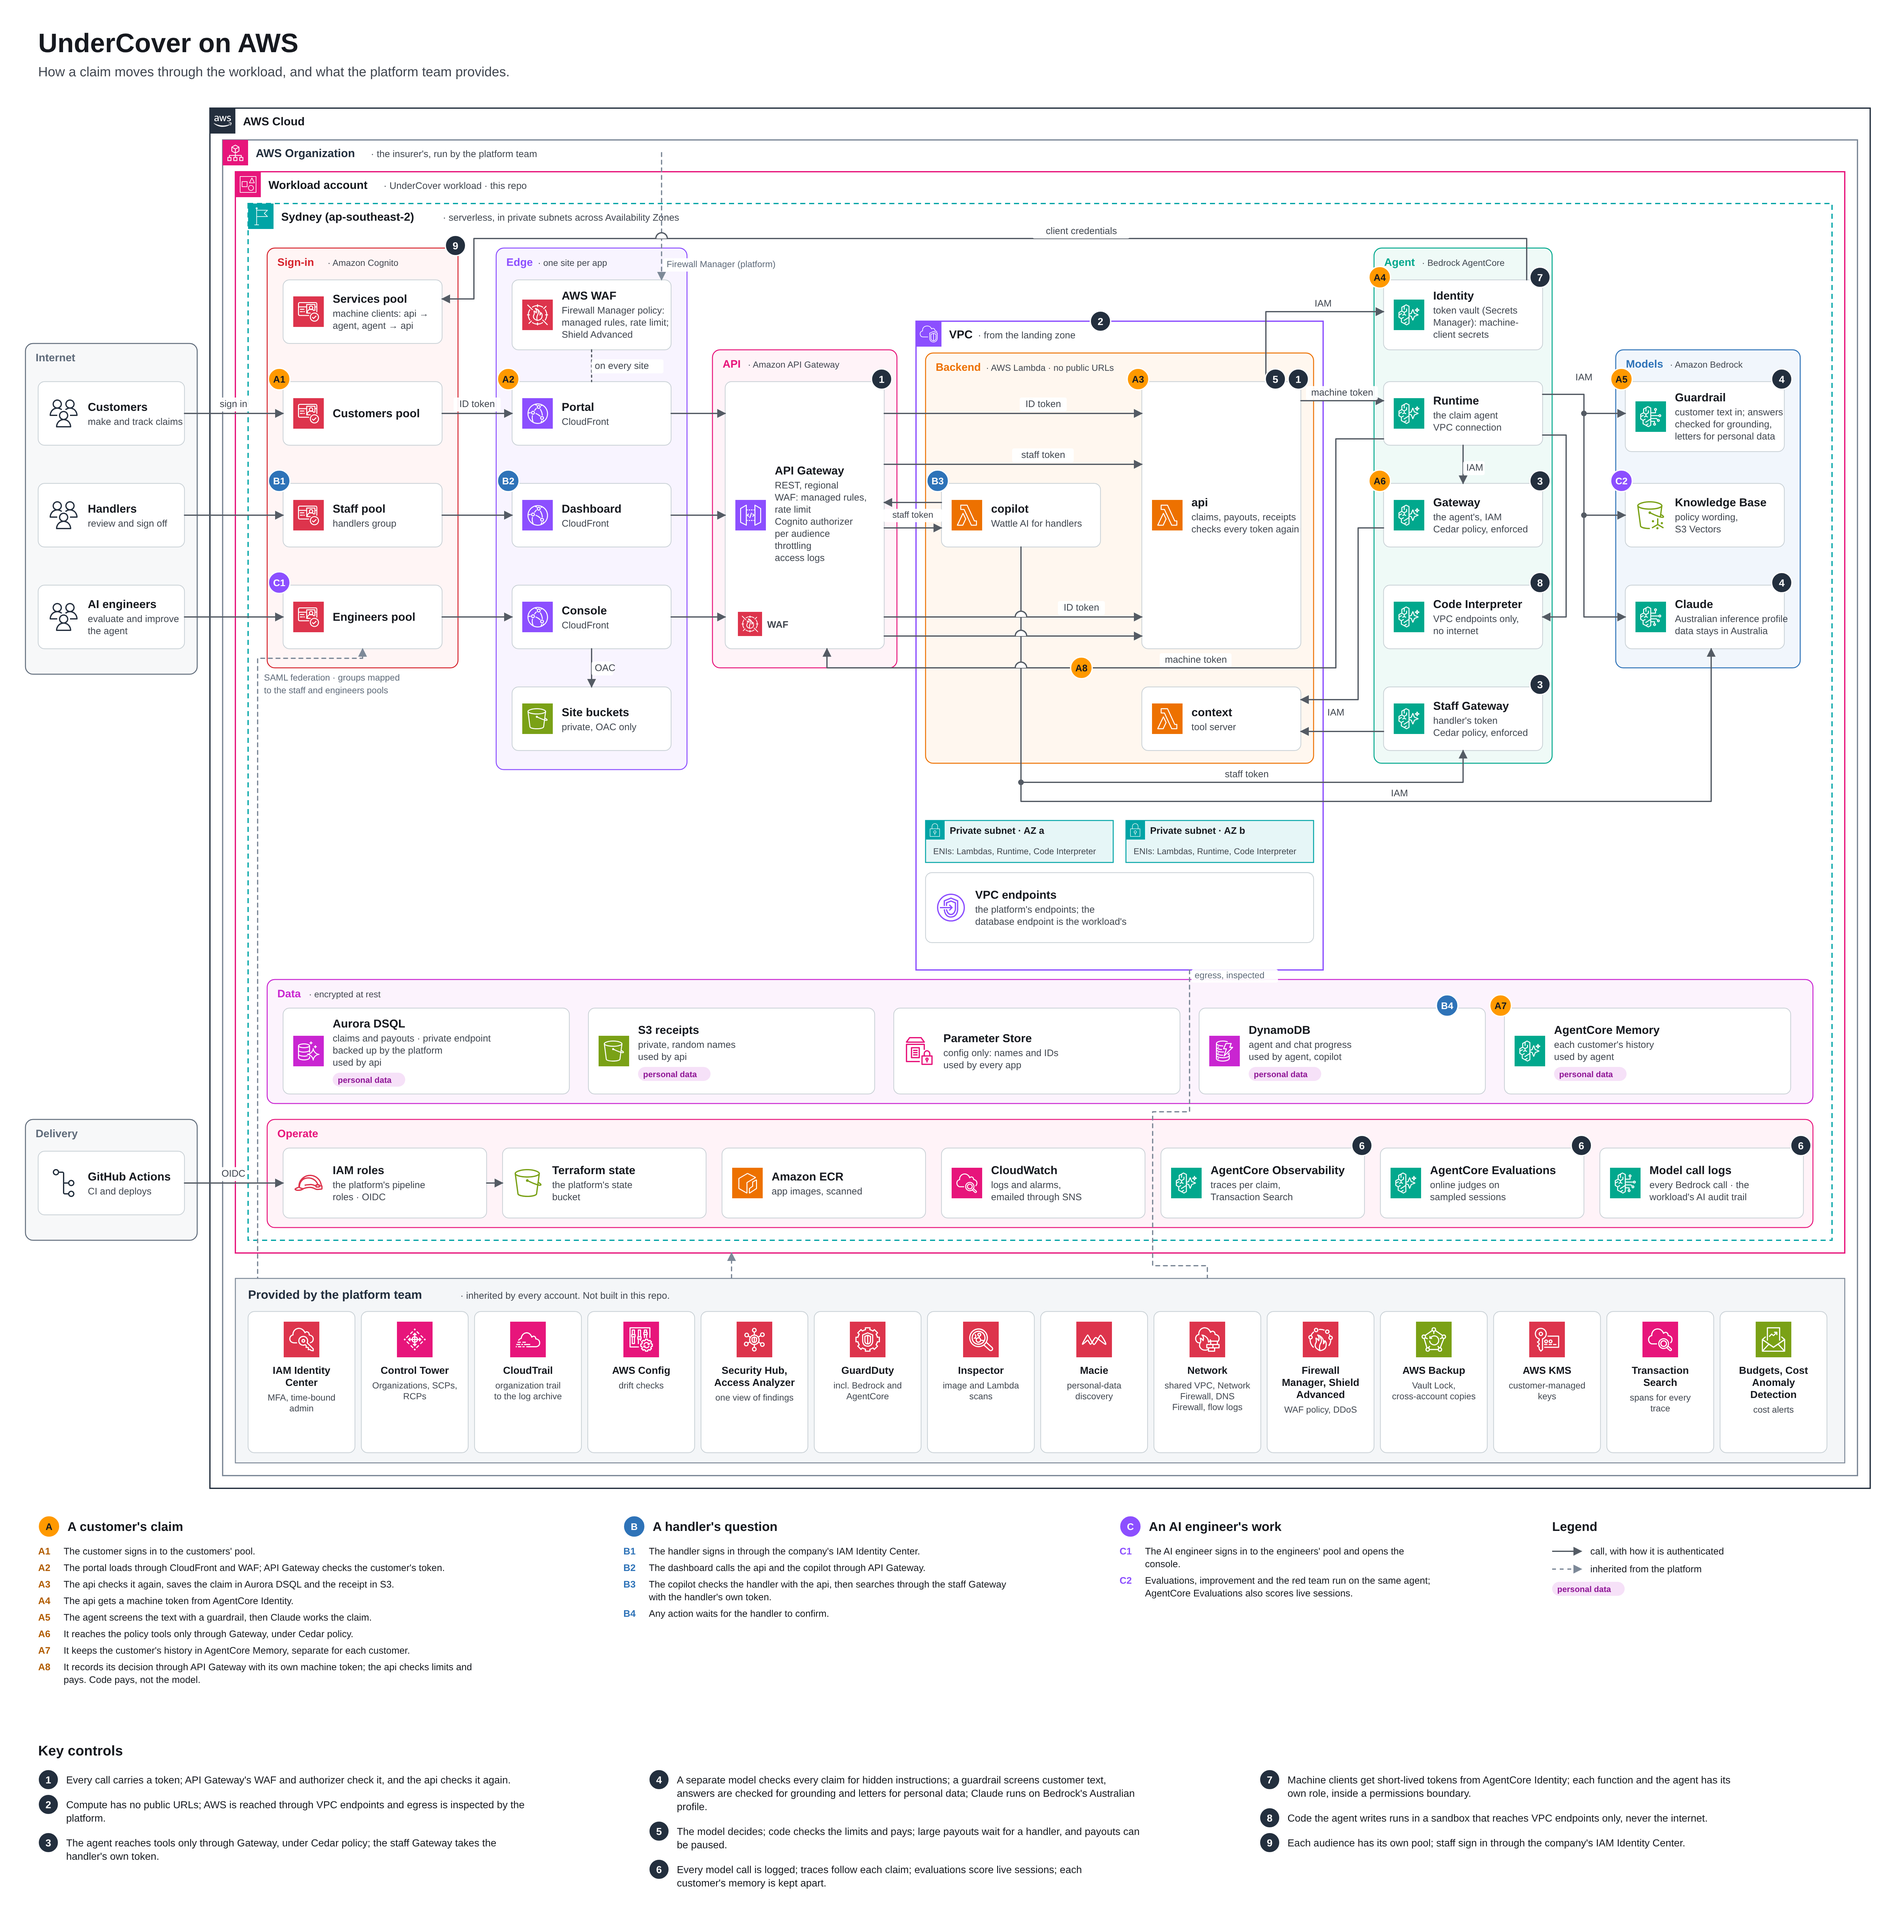
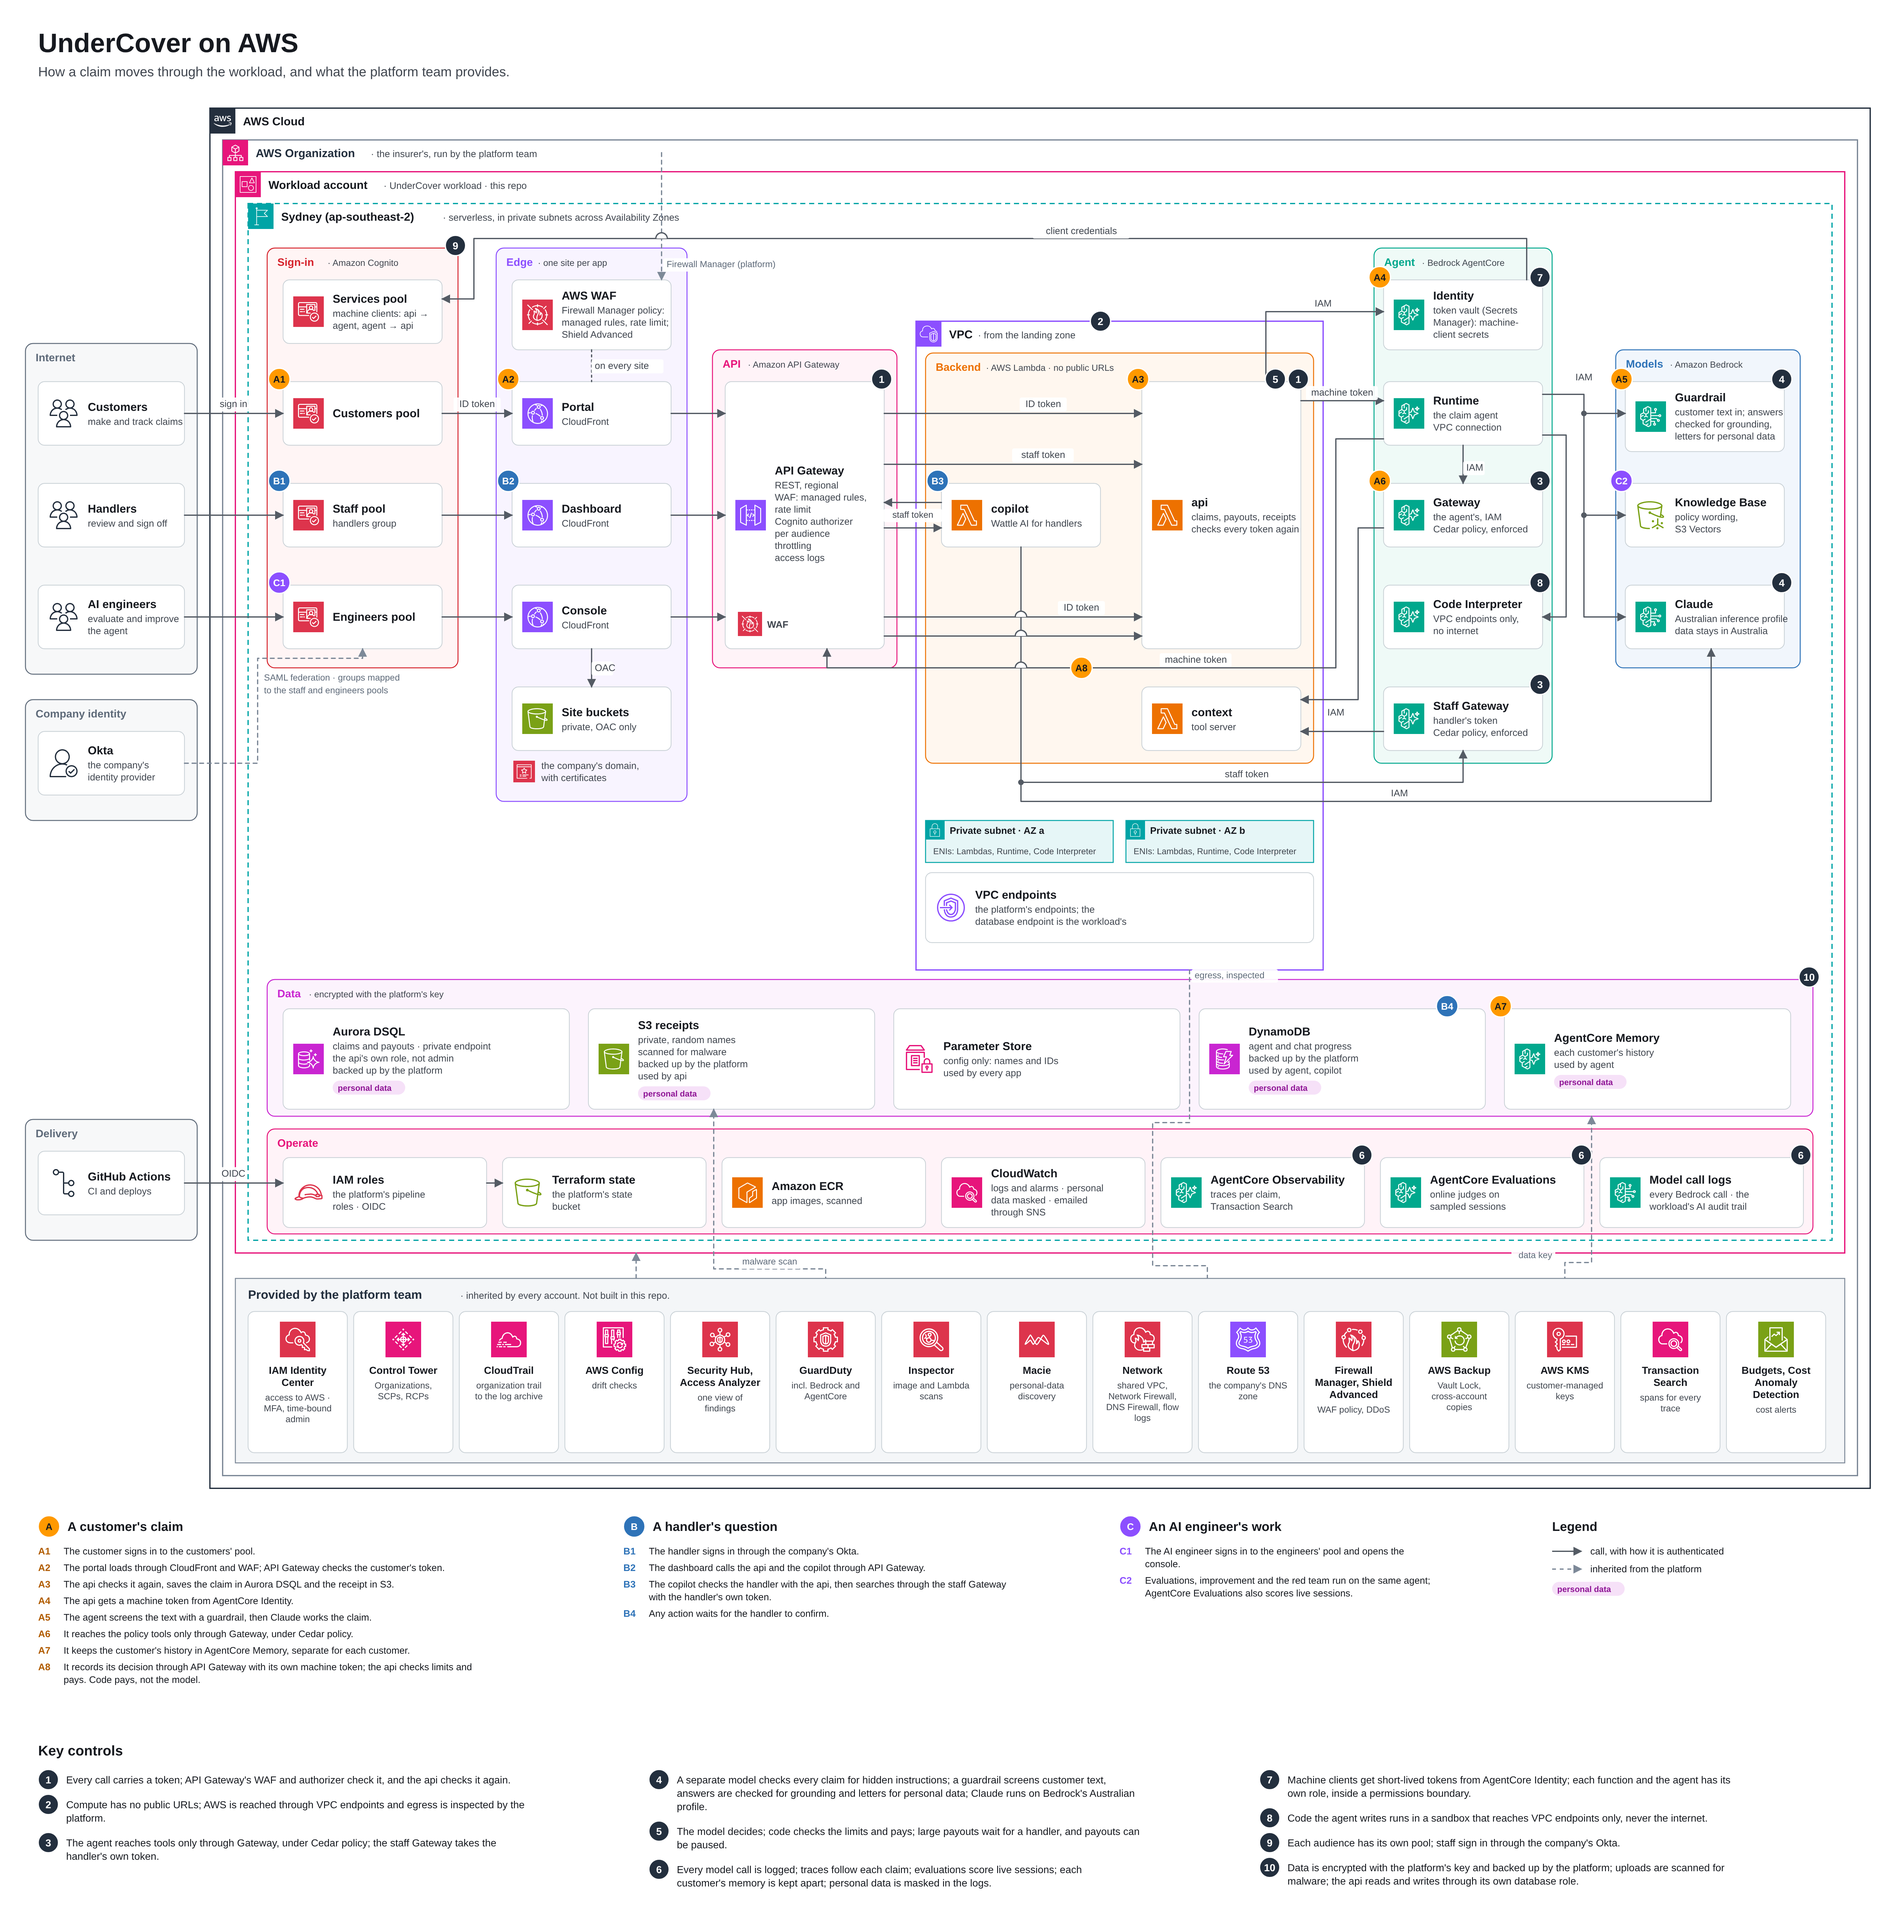
Detailed architecture diagram with Okta and the six enterprise patterns; key control 10 in the guide

diff --git a/guides/03-aws-architecture.md b/guides/03-aws-architecture.md
@@ -40,24 +40,25 @@ The numbered badges in the diagram.
 3. The agent reaches tools only through Gateway, under Cedar policy; the staff Gateway takes the handler's own token.
 4. A separate model checks every claim for hidden instructions; a guardrail screens customer text, answers are checked for grounding and letters for personal data; Claude runs on Bedrock's Australian profile.
 5. The model decides; code checks the limits and pays; large payouts wait for a handler, and payouts can be paused.
-6. Every model call is logged; traces follow each claim; evaluations score live sessions; each customer's memory is kept apart.
+6. Every model call is logged; traces follow each claim; evaluations score live sessions; each customer's memory is kept apart; personal data is masked in the logs.
 7. Machine clients get short-lived tokens from AgentCore Identity; each function and the agent has its own role, inside a permissions boundary.
 8. Code the agent writes runs in a sandbox that reaches VPC endpoints only, never the internet.
 9. Each audience has its own pool; staff sign in through the company's Okta.
+10. Data is encrypted with the platform's key and backed up by the platform; uploads are scanned for malware; the api reads and writes through its own database role.
 
 ## What each part does
 
 In the diagram's order:
 
 - **Sign-in (Cognito):** a pool each for customers, handlers and AI engineers, so one audience's token never works for another; staff sign in with the company's Okta, by SAML; a services pool issues the apps' machine tokens.
-- **Edge (CloudFront, WAF):** one site per app, served from private buckets; WAF rules and a rate limit in front.
+- **Edge (CloudFront, WAF):** one site per app on the company's domain, with certificates, served from private buckets; WAF rules and a rate limit in front.
 - **API (API Gateway):** a regional REST API with its own WAF, so even a call that skips CloudFront meets the rules; it checks every token before a function runs, with throttling and access logs; the functions have no public URLs.
 - **Backend (Lambda):** the api, which owns claims, payouts and limits and checks every token again; the copilot for handlers; and the context server, reachable only through Gateway.
 - **VPC:** the functions and the agent run in private subnets, with nothing coming in; they reach AWS through VPC endpoints, and anything else through the platform's inspected egress.
 - **Agent (AgentCore):** the claim agent on Runtime, which accepts only the api's machine token; Identity keeps the machine-client secrets; Gateway and the staff Gateway are the only way to the tools, under Cedar policy; Code Interpreter reaches the VPC endpoints only.
 - **Models (Bedrock):** Claude on Australia's inference profile, so data stays in Australia; guardrails screen customers' text and check answers and letters before anyone sees them; the knowledge base holds the public policy wording.
 - **Data:** Aurora DSQL for claims and payouts (IAM sign-in, no password, through its own endpoint); S3 for receipts, each scanned for malware; DynamoDB for agent and chat progress; AgentCore Memory for each customer's history. All encrypted at rest with the platform's key, and backed up by the platform.
-- **Operate:** CloudWatch alarms by email, AgentCore Observability's trace of each claim, AgentCore Evaluations on live sessions, and a log of every model call as the workload's AI audit trail.
+- **Operate:** CloudWatch logs with personal data masked, alarms by email, AgentCore Observability's trace of each claim, AgentCore Evaluations on live sessions, and a log of every model call as the workload's AI audit trail.
 - **Delivery:** GitHub Actions signs in with OIDC, plans on PRs and deploys only from `main`, through the platform's pipeline roles and state bucket.
 
 To test a change before deploying, Docker Compose runs the same apps on a laptop.
